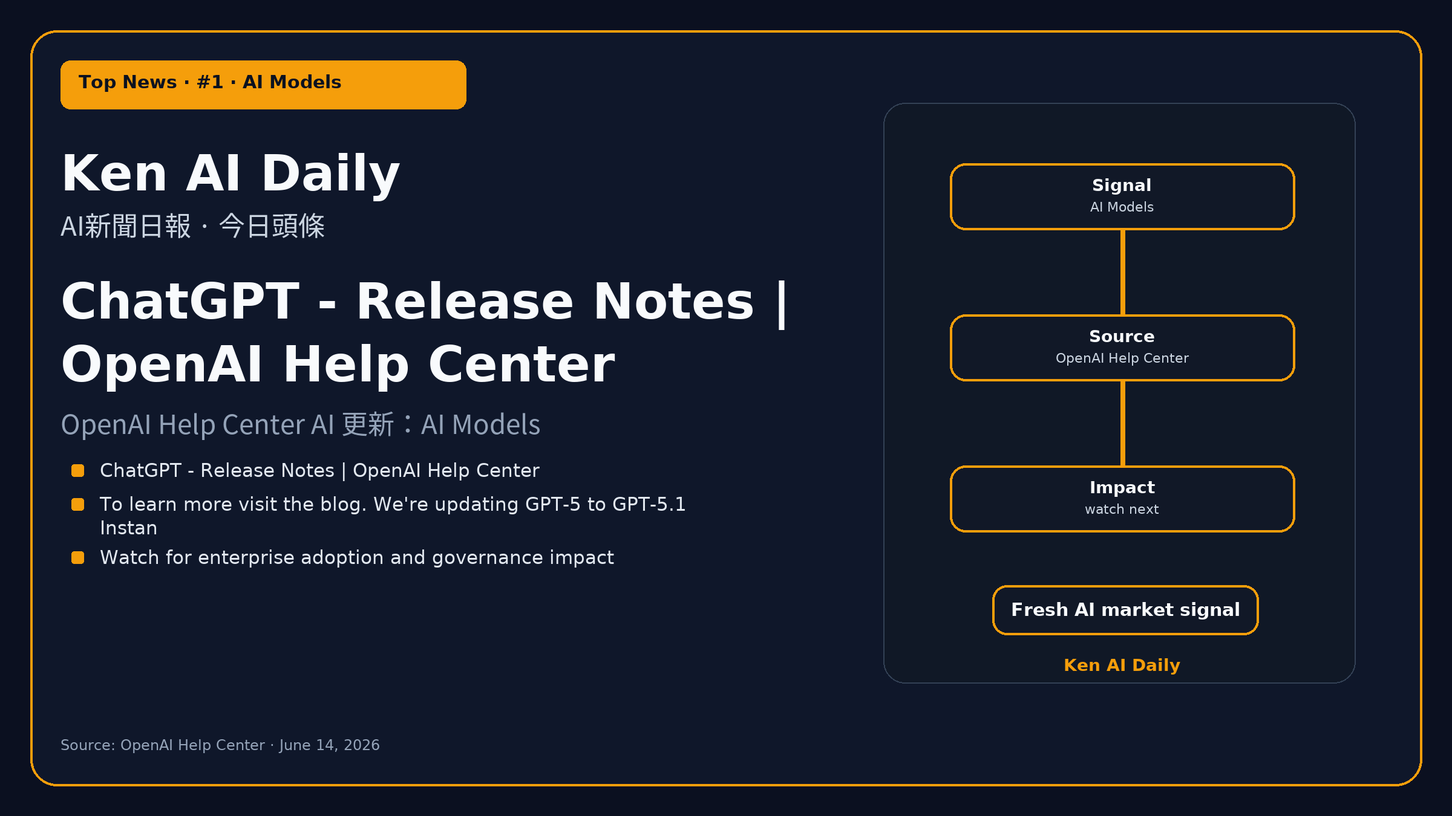
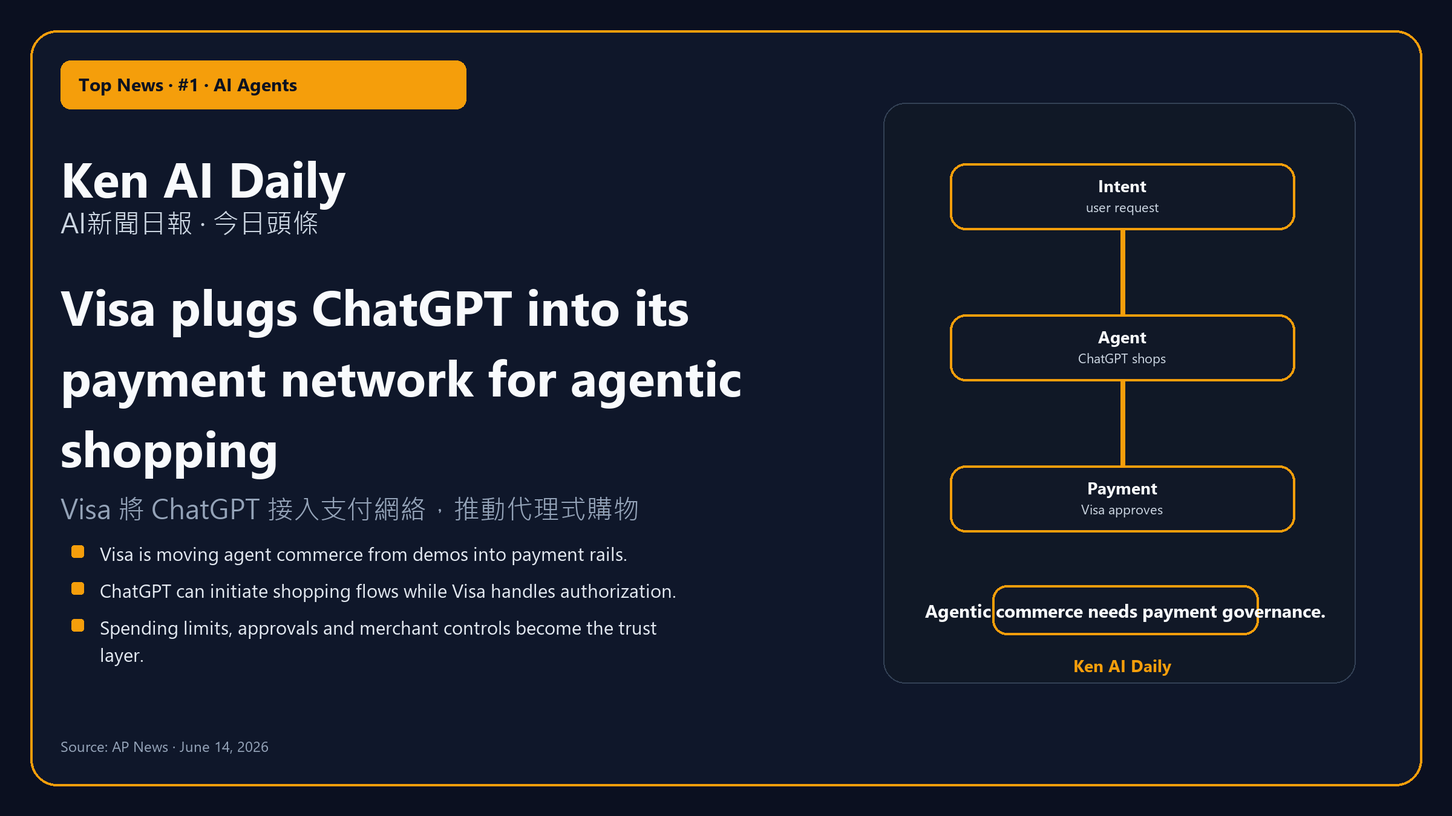
Daily AI brief - 2026-06-14

diff --git a/index.html b/index.html
@@ -943,13 +943,13 @@
     <div class="lead-text">
       <div class="kicker">The Cover Story · June 14</div>
       <h1 class="lead-headline">
-        OpenAI Help Center puts <em>ai models</em> back in focus
+        Agent commerce meets <em>real payment rails</em>
       </h1>
       <p class="lead-deck">
-        Today&#x27;s AI signals point to production systems, governance, infrastructure, and enterprise adoption.
+        Visa&#x27;s ChatGPT integration shows AI agents are moving from advice into authorized transactions.
       </p>
       <p class="lead-deck-zh">
-        今日 AI 訊號聚焦生產化、治理、基建與企業落地。
+        Visa 接入 ChatGPT 顯示 AI 代理正由建議工具走向可授權交易。
       </p>
       <div class="lead-byline">
         <span><strong>By Ken Chan</strong></span>
@@ -972,10 +972,10 @@
      ═══════════════════════════════════════════════════════════ -->
 <section class="ticker">
   <div class="ticker-inner">
-    <div class="stat"><div class="label">Top signal</div><div class="value">AI Models<span class="small">lead story</span></div></div>
-    <div class="stat"><div class="label">Sources</div><div class="value">6<span class="small">ranked items</span></div></div>
-    <div class="stat"><div class="label">Focus</div><div class="value">AI<span class="small">business impact</span></div></div>
-    <div class="stat"><div class="label">Format</div><div class="value">EN+ZH<span class="small">daily brief</span></div></div>
+    <div class="stat"><div class="label">Visa + ChatGPT</div><div class="value">agent<span class="small">payments</span></div></div>
+    <div class="stat"><div class="label">Anthropic</div><div class="value">$200M<span class="small">research</span></div></div>
+    <div class="stat"><div class="label">Model controls</div><div class="value">Fable<span class="small">offline</span></div></div>
+    <div class="stat"><div class="label">State AI laws</div><div class="value">rules<span class="small">advance</span></div></div>
   </div>
 </section>
 
@@ -1000,51 +1000,53 @@
 </div>
 <div class="post-card" id="post-20260614-1">
   <div class="post-meta">
-    <span class="post-cat" style="background:#f59e0b">AI Models</span>
-    <span class="post-source">OpenAI Help Center</span>
+    <span class="post-cat" style="background:#f59e0b">AI Agents</span>
+    <span class="post-source">AP News</span>
     <span class="post-date">Sunday · June 14</span>
   </div>
-  <h2 class="post-title">ChatGPT - Release Notes | OpenAI Help Center</h2>
-  <p class="post-title-zh">OpenAI Help Center AI 更新：AI Models</p>
-  <p class="post-body">To learn more visit the blog. We&#x27;re updating GPT-5 to GPT-5.1 Instant and GPT-5.1 Thinking, making answers both smarter and more conversational. GPT-5.1 Instant now uses</p>
-  <p class="post-body post-body-zh">此消息顯示 AI 市場正從實驗走向更可治理、更可落地的應用。</p>
+  <h2 class="post-title">Visa plugs ChatGPT into its payment network for agentic shopping</h2>
+  <p class="post-title-zh">Visa 將 ChatGPT 接入支付網絡，推動代理式購物</p>
+  <p class="post-body">Visa said it embedded its payment network into ChatGPT so AI agents can recommend items and complete purchases with authorization, spending limits and fraud controls.</p>
+  <p class="post-body post-body-zh">Visa 表示已將支付網絡嵌入 ChatGPT，讓 AI 代理可在授權、支出上限與防詐控制下推薦商品並完成付款。</p>
   <div class="post-infographic"><svg xmlns="http://www.w3.org/2000/svg" viewBox="0 0 580 320" style="background:#0f172a;border-radius:10px;width:100%;max-width:580px">
   <defs><linearGradient id="g202606141" x1="0" y1="0" x2="1" y2="1"><stop offset="0%" stop-color="#1e293b"/><stop offset="100%" stop-color="#0f172a"/></linearGradient></defs>
   <rect width="580" height="320" rx="10" fill="url(#g202606141)"/>
-  <text x="22" y="26" font-size="12" fill="#94a3b8" letter-spacing="1.4">AI MODELS · OpenAI Help Center</text>
-  <text x="22" y="54" font-size="17" fill="#f8fafc" font-weight="800">ChatGPT - Release Notes | OpenAI Help Center</text>
+  <text x="22" y="26" font-size="12" fill="#94a3b8" letter-spacing="1.4">AI AGENTS · AP News</text>
+  <text x="22" y="54" font-size="17" fill="#f8fafc" font-weight="800">Visa plugs ChatGPT into its payment network for agentic...</text>
   
-<rect x="88" y="92" width="166" height="104" rx="18" fill="#111827" stroke="#f59e0b" stroke-width="4"/>
-<rect x="322" y="92" width="166" height="104" rx="18" fill="#111827" stroke="#f59e0b" stroke-width="4"/>
-<text x="171" y="132" font-size="18" fill="#f8fafc" text-anchor="middle">GPT-5.3</text>
-<text x="171" y="158" font-size="12" fill="#cbd5e1" text-anchor="middle">older default</text>
-<text x="405" y="132" font-size="18" fill="#f8fafc" text-anchor="middle">GPT-5.5</text>
-<text x="405" y="158" font-size="12" fill="#cbd5e1" text-anchor="middle">new default</text>
-<path d="M254 144 H322" stroke="#f59e0b" stroke-width="6" stroke-linecap="round"/>
-<text x="290" y="124" font-size="11" fill="#cbd5e1" text-anchor="middle">52.5% fewer hallucinations</text>
+<rect x="72" y="98" width="126" height="82" rx="16" fill="#111827" stroke="#f59e0b" stroke-width="4"/>
+<rect x="226" y="76" width="128" height="126" rx="18" fill="#111827" stroke="#f59e0b" stroke-width="4"/>
+<rect x="382" y="98" width="126" height="82" rx="16" fill="#111827" stroke="#f59e0b" stroke-width="4"/>
+<path d="M198 139 H226 M354 139 H382" stroke="#f59e0b" stroke-width="6" stroke-linecap="round"/>
+<text x="135" y="131" font-size="16" fill="#f8fafc" text-anchor="middle">Wallet</text>
+<text x="135" y="154" font-size="11" fill="#cbd5e1" text-anchor="middle">limits + auth</text>
+<text x="290" y="128" font-size="16" fill="#f8fafc" text-anchor="middle">AgentCore</text>
+<text x="290" y="151" font-size="11" fill="#cbd5e1" text-anchor="middle">x402 payment loop</text>
+<text x="445" y="131" font-size="16" fill="#f8fafc" text-anchor="middle">Tools</text>
+<text x="445" y="154" font-size="11" fill="#cbd5e1" text-anchor="middle">paid endpoints</text>
 
   <rect x="24" y="236" width="160" height="48" rx="8" fill="#111827" stroke="#334155"/><rect x="24" y="236" width="160" height="4" rx="2" fill="#f59e0b"/><text x="38" y="259" font-size="15" fill="#f8fafc" font-weight="800">#1</text><text x="38" y="276" font-size="10" fill="#94a3b8">ranking</text>
-  <rect x="204" y="236" width="160" height="48" rx="8" fill="#111827" stroke="#334155"/><rect x="204" y="236" width="160" height="4" rx="2" fill="#f59e0b"/><text x="218" y="259" font-size="15" fill="#f8fafc" font-weight="800">AI Models</text><text x="218" y="276" font-size="10" fill="#94a3b8">category</text>
+  <rect x="204" y="236" width="160" height="48" rx="8" fill="#111827" stroke="#334155"/><rect x="204" y="236" width="160" height="4" rx="2" fill="#f59e0b"/><text x="218" y="259" font-size="15" fill="#f8fafc" font-weight="800">AI Agents</text><text x="218" y="276" font-size="10" fill="#94a3b8">category</text>
   <rect x="384" y="236" width="160" height="48" rx="8" fill="#111827" stroke="#334155"/><rect x="384" y="236" width="160" height="4" rx="2" fill="#f59e0b"/><text x="398" y="259" font-size="15" fill="#f8fafc" font-weight="800">June 14</text><text x="398" y="276" font-size="10" fill="#94a3b8">HKT issue</text>
-  <text x="22" y="306" font-size="10" fill="#64748b">Source: OpenAI Help Center</text><text x="558" y="306" font-size="10" fill="#64748b" text-anchor="end">Ken AI Daily</text>
+  <text x="22" y="306" font-size="10" fill="#64748b">Source: AP News</text><text x="558" y="306" font-size="10" fill="#64748b" text-anchor="end">Ken AI Daily</text>
 </svg></div>
-  <a class="post-link" href="https://help.openai.com/en/articles/6825453-chatgpt-release-notes" target="_blank" rel="noopener">OpenAI Help Center →</a>
+  <a class="post-link" href="https://apnews.com/article/visa-chatgpt-openai-shopping-mastercard-d769dec86344cb4977c98789e8ec492f" target="_blank" rel="noopener">AP News →</a>
 </div>
 <div class="post-card" id="post-20260614-2">
   <div class="post-meta">
-    <span class="post-cat" style="background:#06b6d4">AI Regulation</span>
-    <span class="post-source">Sentinel</span>
+    <span class="post-cat" style="background:#06b6d4">AI Security</span>
+    <span class="post-source">AP News</span>
     <span class="post-date">Sunday · June 14</span>
   </div>
-  <h2 class="post-title">Deloitte and Google Cloud launch 1,000 AI agents for enterprises</h2>
-  <p class="post-title-zh">德勤與谷歌雲推出1000個AI代理</p>
-  <p class="post-body">Deloitte and Google Cloud announced a practice with over 1000 pre-built AI agents to accelerate enterprise AI adoption</p>
-  <p class="post-body post-body-zh">德勤與谷歌雲宣布推出1000個AI代理加速企業AI應用</p>
+  <h2 class="post-title">Anthropic takes newest models offline under U.S. export controls</h2>
+  <p class="post-title-zh">Anthropic 因美國出口管制下架最新模型</p>
+  <p class="post-body">Anthropic said it took Fable 5 and Mythos 5 offline after a U.S. directive blocked access by foreign nationals, escalating the model-control debate.</p>
+  <p class="post-body post-body-zh">Anthropic 表示在美國指令限制外國人士取用後，下架 Fable 5 與 Mythos 5，令模型管制爭議升級。</p>
   <div class="post-infographic"><svg xmlns="http://www.w3.org/2000/svg" viewBox="0 0 580 320" style="background:#0f172a;border-radius:10px;width:100%;max-width:580px">
   <defs><linearGradient id="g202606142" x1="0" y1="0" x2="1" y2="1"><stop offset="0%" stop-color="#1e293b"/><stop offset="100%" stop-color="#0f172a"/></linearGradient></defs>
   <rect width="580" height="320" rx="10" fill="url(#g202606142)"/>
-  <text x="22" y="26" font-size="12" fill="#94a3b8" letter-spacing="1.4">AI REGULATION · Sentinel</text>
-  <text x="22" y="54" font-size="17" fill="#f8fafc" font-weight="800">Deloitte and Google Cloud launch 1,000 AI agents for...</text>
+  <text x="22" y="26" font-size="12" fill="#94a3b8" letter-spacing="1.4">AI SECURITY · AP News</text>
+  <text x="22" y="54" font-size="17" fill="#f8fafc" font-weight="800">Anthropic takes newest models offline under U.S. export...</text>
   
 <rect x="82" y="94" width="124" height="88" rx="16" fill="#111827" stroke="#06b6d4" stroke-width="4"/>
 <rect x="228" y="78" width="124" height="120" rx="16" fill="#111827" stroke="#06b6d4" stroke-width="4"/>
@@ -1056,143 +1058,147 @@
 <text x="436" y="144" font-size="17" fill="#f8fafc" text-anchor="middle">Deploy</text>
 
   <rect x="24" y="236" width="160" height="48" rx="8" fill="#111827" stroke="#334155"/><rect x="24" y="236" width="160" height="4" rx="2" fill="#06b6d4"/><text x="38" y="259" font-size="15" fill="#f8fafc" font-weight="800">#2</text><text x="38" y="276" font-size="10" fill="#94a3b8">ranking</text>
-  <rect x="204" y="236" width="160" height="48" rx="8" fill="#111827" stroke="#334155"/><rect x="204" y="236" width="160" height="4" rx="2" fill="#06b6d4"/><text x="218" y="259" font-size="15" fill="#f8fafc" font-weight="800">AI Regulation</text><text x="218" y="276" font-size="10" fill="#94a3b8">category</text>
+  <rect x="204" y="236" width="160" height="48" rx="8" fill="#111827" stroke="#334155"/><rect x="204" y="236" width="160" height="4" rx="2" fill="#06b6d4"/><text x="218" y="259" font-size="15" fill="#f8fafc" font-weight="800">AI Security</text><text x="218" y="276" font-size="10" fill="#94a3b8">category</text>
   <rect x="384" y="236" width="160" height="48" rx="8" fill="#111827" stroke="#334155"/><rect x="384" y="236" width="160" height="4" rx="2" fill="#06b6d4"/><text x="398" y="259" font-size="15" fill="#f8fafc" font-weight="800">June 14</text><text x="398" y="276" font-size="10" fill="#94a3b8">HKT issue</text>
-  <text x="22" y="306" font-size="10" fill="#64748b">Source: Sentinel</text><text x="558" y="306" font-size="10" fill="#64748b" text-anchor="end">Ken AI Daily</text>
+  <text x="22" y="306" font-size="10" fill="#64748b">Source: AP News</text><text x="558" y="306" font-size="10" fill="#64748b" text-anchor="end">Ken AI Daily</text>
 </svg></div>
-  <a class="post-link" href="https://sentinel.ht/deloitte-google-cloud-agentic-practice-enterprise-agents/" target="_blank" rel="noopener">Sentinel →</a>
+  <a class="post-link" href="https://apnews.com/article/anthropic-artificial-intelligence-trump-fable-mythos-d9cc7df5c02e93837d0f0bfb24d5cfd2" target="_blank" rel="noopener">AP News →</a>
 </div>
 <div class="post-card" id="post-20260614-3">
   <div class="post-meta">
-    <span class="post-cat" style="background:#ef4444">AI Infrastructure</span>
-    <span class="post-source">NVIDIA</span>
+    <span class="post-cat" style="background:#ef4444">AI Regulation</span>
+    <span class="post-source">AP News</span>
     <span class="post-date">Sunday · June 14</span>
   </div>
-  <h2 class="post-title">NVIDIA: Essential AI Infrastructure Driving the Next Generation</h2>
-  <p class="post-title-zh">NVIDIA AI基礎設施推動下一代</p>
-  <p class="post-body">NVIDIA provides the essential computing infrastructure for artificial intelligence, from GPUs to supercomputers</p>
-  <p class="post-body post-body-zh">NVIDIA提供從GPU到超級電腦的AI運算基礎</p>
+  <h2 class="post-title">U.S. states keep advancing AI rules despite federal pushback</h2>
+  <p class="post-title-zh">即使聯邦施壓，美國各州仍推進 AI 規管</p>
+  <p class="post-body">AP reports state lawmakers are pressing ahead with targeted AI laws on chatbots, employers and catastrophic-risk duties while Congress remains stalled.</p>
+  <p class="post-body post-body-zh">AP 指州議員在國會停滯下，仍推動針對聊天機器人、僱主與災難風險責任的 AI 法例。</p>
   <div class="post-infographic"><svg xmlns="http://www.w3.org/2000/svg" viewBox="0 0 580 320" style="background:#0f172a;border-radius:10px;width:100%;max-width:580px">
   <defs><linearGradient id="g202606143" x1="0" y1="0" x2="1" y2="1"><stop offset="0%" stop-color="#1e293b"/><stop offset="100%" stop-color="#0f172a"/></linearGradient></defs>
   <rect width="580" height="320" rx="10" fill="url(#g202606143)"/>
-  <text x="22" y="26" font-size="12" fill="#94a3b8" letter-spacing="1.4">AI INFRASTRUCTURE · NVIDIA</text>
-  <text x="22" y="54" font-size="17" fill="#f8fafc" font-weight="800">NVIDIA: Essential AI Infrastructure Driving the Next...</text>
+  <text x="22" y="26" font-size="12" fill="#94a3b8" letter-spacing="1.4">AI REGULATION · AP News</text>
+  <text x="22" y="54" font-size="17" fill="#f8fafc" font-weight="800">U.S. states keep advancing AI rules despite federal pushback</text>
   
-<rect x="84" y="104" width="122" height="70" rx="14" fill="#111827" stroke="#ef4444" stroke-width="3"/>
-<rect x="228" y="86" width="122" height="106" rx="14" fill="#111827" stroke="#ef4444" stroke-width="3"/>
-<rect x="372" y="104" width="122" height="70" rx="14" fill="#111827" stroke="#ef4444" stroke-width="3"/>
-<path d="M206 139 H228 M350 139 H372" stroke="#ef4444" stroke-width="6" stroke-linecap="round"/>
-<text x="145" y="136" font-size="15" fill="#f8fafc" text-anchor="middle">Capital</text>
-<text x="289" y="128" font-size="15" fill="#f8fafc" text-anchor="middle">Cloud + TPU</text>
-<text x="289" y="151" font-size="11" fill="#cbd5e1" text-anchor="middle">5-year commitment</text>
-<text x="433" y="136" font-size="15" fill="#f8fafc" text-anchor="middle">Capacity</text>
-
-  <rect x="24" y="236" width="160" height="48" rx="8" fill="#111827" stroke="#334155"/><rect x="24" y="236" width="160" height="4" rx="2" fill="#ef4444"/><text x="38" y="259" font-size="15" fill="#f8fafc" font-weight="800">#3</text><text x="38" y="276" font-size="10" fill="#94a3b8">ranking</text>
-  <rect x="204" y="236" width="160" height="48" rx="8" fill="#111827" stroke="#334155"/><rect x="204" y="236" width="160" height="4" rx="2" fill="#ef4444"/><text x="218" y="259" font-size="15" fill="#f8fafc" font-weight="800">AI Infrastructure</text><text x="218" y="276" font-size="10" fill="#94a3b8">category</text>
-  <rect x="384" y="236" width="160" height="48" rx="8" fill="#111827" stroke="#334155"/><rect x="384" y="236" width="160" height="4" rx="2" fill="#ef4444"/><text x="398" y="259" font-size="15" fill="#f8fafc" font-weight="800">June 14</text><text x="398" y="276" font-size="10" fill="#94a3b8">HKT issue</text>
-  <text x="22" y="306" font-size="10" fill="#64748b">Source: NVIDIA</text><text x="558" y="306" font-size="10" fill="#64748b" text-anchor="end">Ken AI Daily</text>
-</svg></div>
-  <a class="post-link" href="https://www.nvidia.com/en-us/" target="_blank" rel="noopener">NVIDIA →</a>
-</div>
-<div class="post-card" id="post-20260614-4">
-  <div class="post-meta">
-    <span class="post-cat" style="background:#f97316">AI Regulation</span>
-    <span class="post-source">Anthropic</span>
-    <span class="post-date">Sunday · June 14</span>
-  </div>
-  <h2 class="post-title">Anthropic Advocates Federal AI Regulation, Warns Against Preempting State Laws</h2>
-  <p class="post-title-zh">Anthropic 呼籲聯邦AI法規，勿取代更嚴格州法</p>
-  <p class="post-body">Anthropic proposes federal AI regulation but cautions against preempting stronger state laws</p>
-  <p class="post-body post-body-zh">Anthropic 提議聯邦AI法規，但警告勿取代更嚴州法</p>
-  <div class="post-infographic"><svg xmlns="http://www.w3.org/2000/svg" viewBox="0 0 580 320" style="background:#0f172a;border-radius:10px;width:100%;max-width:580px">
-  <defs><linearGradient id="g202606144" x1="0" y1="0" x2="1" y2="1"><stop offset="0%" stop-color="#1e293b"/><stop offset="100%" stop-color="#0f172a"/></linearGradient></defs>
-  <rect width="580" height="320" rx="10" fill="url(#g202606144)"/>
-  <text x="22" y="26" font-size="12" fill="#94a3b8" letter-spacing="1.4">AI REGULATION · Anthropic</text>
-  <text x="22" y="54" font-size="17" fill="#f8fafc" font-weight="800">Anthropic Advocates Federal AI Regulation, Warns Against...</text>
-  
-<rect x="82" y="94" width="124" height="88" rx="16" fill="#111827" stroke="#f97316" stroke-width="4"/>
-<rect x="228" y="78" width="124" height="120" rx="16" fill="#111827" stroke="#f97316" stroke-width="4"/>
-<rect x="374" y="94" width="124" height="88" rx="16" fill="#111827" stroke="#f97316" stroke-width="4"/>
-<path d="M206 138 H228 M352 138 H374" stroke="#f97316" stroke-width="6" stroke-linecap="round"/>
+<rect x="82" y="94" width="124" height="88" rx="16" fill="#111827" stroke="#ef4444" stroke-width="4"/>
+<rect x="228" y="78" width="124" height="120" rx="16" fill="#111827" stroke="#ef4444" stroke-width="4"/>
+<rect x="374" y="94" width="124" height="88" rx="16" fill="#111827" stroke="#ef4444" stroke-width="4"/>
+<path d="M206 138 H228 M352 138 H374" stroke="#ef4444" stroke-width="6" stroke-linecap="round"/>
 <text x="144" y="144" font-size="17" fill="#f8fafc" text-anchor="middle">Labs</text>
 <text x="290" y="132" font-size="17" fill="#f8fafc" text-anchor="middle">CAISI</text>
 <text x="290" y="156" font-size="12" fill="#cbd5e1" text-anchor="middle">pre-release evals</text>
 <text x="436" y="144" font-size="17" fill="#f8fafc" text-anchor="middle">Deploy</text>
 
-  <rect x="24" y="236" width="160" height="48" rx="8" fill="#111827" stroke="#334155"/><rect x="24" y="236" width="160" height="4" rx="2" fill="#f97316"/><text x="38" y="259" font-size="15" fill="#f8fafc" font-weight="800">#4</text><text x="38" y="276" font-size="10" fill="#94a3b8">ranking</text>
-  <rect x="204" y="236" width="160" height="48" rx="8" fill="#111827" stroke="#334155"/><rect x="204" y="236" width="160" height="4" rx="2" fill="#f97316"/><text x="218" y="259" font-size="15" fill="#f8fafc" font-weight="800">AI Regulation</text><text x="218" y="276" font-size="10" fill="#94a3b8">category</text>
-  <rect x="384" y="236" width="160" height="48" rx="8" fill="#111827" stroke="#334155"/><rect x="384" y="236" width="160" height="4" rx="2" fill="#f97316"/><text x="398" y="259" font-size="15" fill="#f8fafc" font-weight="800">June 14</text><text x="398" y="276" font-size="10" fill="#94a3b8">HKT issue</text>
-  <text x="22" y="306" font-size="10" fill="#64748b">Source: Anthropic</text><text x="558" y="306" font-size="10" fill="#64748b" text-anchor="end">Ken AI Daily</text>
+  <rect x="24" y="236" width="160" height="48" rx="8" fill="#111827" stroke="#334155"/><rect x="24" y="236" width="160" height="4" rx="2" fill="#ef4444"/><text x="38" y="259" font-size="15" fill="#f8fafc" font-weight="800">#3</text><text x="38" y="276" font-size="10" fill="#94a3b8">ranking</text>
+  <rect x="204" y="236" width="160" height="48" rx="8" fill="#111827" stroke="#334155"/><rect x="204" y="236" width="160" height="4" rx="2" fill="#ef4444"/><text x="218" y="259" font-size="15" fill="#f8fafc" font-weight="800">AI Regulation</text><text x="218" y="276" font-size="10" fill="#94a3b8">category</text>
+  <rect x="384" y="236" width="160" height="48" rx="8" fill="#111827" stroke="#334155"/><rect x="384" y="236" width="160" height="4" rx="2" fill="#ef4444"/><text x="398" y="259" font-size="15" fill="#f8fafc" font-weight="800">June 14</text><text x="398" y="276" font-size="10" fill="#94a3b8">HKT issue</text>
+  <text x="22" y="306" font-size="10" fill="#64748b">Source: AP News</text><text x="558" y="306" font-size="10" fill="#64748b" text-anchor="end">Ken AI Daily</text>
 </svg></div>
-  <a class="post-link" href="https://www.anthropic.com/policy-on-the-ai-exponential" target="_blank" rel="noopener">Anthropic →</a>
+  <a class="post-link" href="https://apnews.com/article/trump-artificial-intelligence-chatbots-ai-23a0e44ab05402ddfe9cdfd0bffa0ade" target="_blank" rel="noopener">AP News →</a>
+</div>
+<div class="post-card" id="post-20260614-4">
+  <div class="post-meta">
+    <span class="post-cat" style="background:#f97316">AI Funding</span>
+    <span class="post-source">AP News</span>
+    <span class="post-date">Sunday · June 14</span>
+  </div>
+  <h2 class="post-title">Anthropic pledges $200M for research into AI&#x27;s economic shock</h2>
+  <p class="post-title-zh">Anthropic 承諾投入 2 億美元研究 AI 經濟衝擊</p>
+  <p class="post-body">Anthropic announced an initial $200 million effort to study AI&#x27;s effects on jobs and the economy as Dario Amodei argued for broader public support.</p>
+  <p class="post-body post-body-zh">Anthropic 宣布首階段投入 2 億美元研究 AI 對就業與經濟的影響，Dario Amodei 亦主張更廣泛公共支援。</p>
+  <div class="post-infographic"><svg xmlns="http://www.w3.org/2000/svg" viewBox="0 0 580 320" style="background:#0f172a;border-radius:10px;width:100%;max-width:580px">
+  <defs><linearGradient id="g202606144" x1="0" y1="0" x2="1" y2="1"><stop offset="0%" stop-color="#1e293b"/><stop offset="100%" stop-color="#0f172a"/></linearGradient></defs>
+  <rect width="580" height="320" rx="10" fill="url(#g202606144)"/>
+  <text x="22" y="26" font-size="12" fill="#94a3b8" letter-spacing="1.4">AI FUNDING · AP News</text>
+  <text x="22" y="54" font-size="17" fill="#f8fafc" font-weight="800">Anthropic pledges $200M for research into AI&#x27;s economic shock</text>
+  
+<rect x="70" y="94" width="132" height="90" rx="16" fill="#111827" stroke="#f97316" stroke-width="4"/>
+<rect x="224" y="78" width="132" height="122" rx="16" fill="#111827" stroke="#f97316" stroke-width="4"/>
+<rect x="378" y="94" width="132" height="90" rx="16" fill="#111827" stroke="#f97316" stroke-width="4"/>
+<path d="M202 139 H224 M356 139 H378" stroke="#f97316" stroke-width="6" stroke-linecap="round"/>
+<text x="136" y="130" font-size="15" fill="#f8fafc" text-anchor="middle">Brands</text>
+<text x="136" y="154" font-size="11" fill="#cbd5e1" text-anchor="middle">partners</text>
+<text x="290" y="128" font-size="15" fill="#f8fafc" text-anchor="middle">Ads Manager</text>
+<text x="290" y="152" font-size="11" fill="#cbd5e1" text-anchor="middle">self-serve beta</text>
+<text x="444" y="130" font-size="15" fill="#f8fafc" text-anchor="middle">ChatGPT</text>
+<text x="444" y="154" font-size="11" fill="#cbd5e1" text-anchor="middle">CPC buying</text>
+
+  <rect x="24" y="236" width="160" height="48" rx="8" fill="#111827" stroke="#334155"/><rect x="24" y="236" width="160" height="4" rx="2" fill="#f97316"/><text x="38" y="259" font-size="15" fill="#f8fafc" font-weight="800">#4</text><text x="38" y="276" font-size="10" fill="#94a3b8">ranking</text>
+  <rect x="204" y="236" width="160" height="48" rx="8" fill="#111827" stroke="#334155"/><rect x="204" y="236" width="160" height="4" rx="2" fill="#f97316"/><text x="218" y="259" font-size="15" fill="#f8fafc" font-weight="800">AI Funding</text><text x="218" y="276" font-size="10" fill="#94a3b8">category</text>
+  <rect x="384" y="236" width="160" height="48" rx="8" fill="#111827" stroke="#334155"/><rect x="384" y="236" width="160" height="4" rx="2" fill="#f97316"/><text x="398" y="259" font-size="15" fill="#f8fafc" font-weight="800">June 14</text><text x="398" y="276" font-size="10" fill="#94a3b8">HKT issue</text>
+  <text x="22" y="306" font-size="10" fill="#64748b">Source: AP News</text><text x="558" y="306" font-size="10" fill="#64748b" text-anchor="end">Ken AI Daily</text>
+</svg></div>
+  <a class="post-link" href="https://apnews.com/article/anthropic-dario-amodei-ai-afeb5279eef406980dffa46ff91495e0" target="_blank" rel="noopener">AP News →</a>
 </div>
 <div class="post-card" id="post-20260614-5">
   <div class="post-meta">
-    <span class="post-cat" style="background:#22c55e">AI Agents</span>
-    <span class="post-source">NVIDIA Developer</span>
+    <span class="post-cat" style="background:#22c55e">AI Regulation</span>
+    <span class="post-source">AP News</span>
     <span class="post-date">Sunday · June 14</span>
   </div>
-  <h2 class="post-title">NVIDIA Previews Qwen3-Next AI Agent with Optimized NIM</h2>
-  <p class="post-title-zh">NVIDIA預覽Qwen3-Next AI代理</p>
-  <p class="post-body">NVIDIA previews Qwen3-Next, a hybrid MoE model for building AI agents with accelerated inference</p>
-  <p class="post-body post-body-zh">NVIDIA預覽Qwen3-Next混合MoE模型，加速AI代理推理。</p>
+  <h2 class="post-title">New York requires ads to label AI-generated synthetic performers</h2>
+  <p class="post-title-zh">紐約要求廣告標示 AI 生成的虛擬表演者</p>
+  <p class="post-body">New York&#x27;s new law requires ads using AI-generated people in place of actors to make clear disclosures, with penalties for violations.</p>
+  <p class="post-body post-body-zh">紐約新法要求以 AI 生成真人形象取代演員的廣告作出清楚披露，違規者將面臨罰款。</p>
   <div class="post-infographic"><svg xmlns="http://www.w3.org/2000/svg" viewBox="0 0 580 320" style="background:#0f172a;border-radius:10px;width:100%;max-width:580px">
   <defs><linearGradient id="g202606145" x1="0" y1="0" x2="1" y2="1"><stop offset="0%" stop-color="#1e293b"/><stop offset="100%" stop-color="#0f172a"/></linearGradient></defs>
   <rect width="580" height="320" rx="10" fill="url(#g202606145)"/>
-  <text x="22" y="26" font-size="12" fill="#94a3b8" letter-spacing="1.4">AI AGENTS · NVIDIA Developer</text>
-  <text x="22" y="54" font-size="17" fill="#f8fafc" font-weight="800">NVIDIA Previews Qwen3-Next AI Agent with Optimized NIM</text>
+  <text x="22" y="26" font-size="12" fill="#94a3b8" letter-spacing="1.4">AI REGULATION · AP News</text>
+  <text x="22" y="54" font-size="17" fill="#f8fafc" font-weight="800">New York requires ads to label AI-generated synthetic...</text>
   
-<circle cx="126" cy="138" r="40" fill="#111827" stroke="#22c55e" stroke-width="4"/>
-<rect x="220" y="96" width="146" height="82" rx="14" fill="#111827" stroke="#22c55e" stroke-width="4"/>
-<rect x="410" y="84" width="92" height="36" rx="10" fill="#111827" stroke="#22c55e" stroke-width="3"/>
-<rect x="410" y="128" width="92" height="36" rx="10" fill="#111827" stroke="#22c55e" stroke-width="3"/>
-<rect x="410" y="172" width="92" height="36" rx="10" fill="#111827" stroke="#22c55e" stroke-width="3"/>
-<path d="M166 138 H220 M366 138 H410" stroke="#22c55e" stroke-width="6" stroke-linecap="round"/>
-<text x="126" y="145" font-size="15" fill="#f8fafc" text-anchor="middle">Arc</text>
-<text x="293" y="128" font-size="16" fill="#f8fafc" text-anchor="middle">OpenShell</text>
-<text x="293" y="151" font-size="12" fill="#cbd5e1" text-anchor="middle">secure runtime</text>
-<text x="456" y="107" font-size="11" fill="#f8fafc" text-anchor="middle">sandbox</text>
-<text x="456" y="151" font-size="11" fill="#f8fafc" text-anchor="middle">policy</text>
-<text x="456" y="195" font-size="11" fill="#f8fafc" text-anchor="middle">audit</text>
+<rect x="88" y="90" width="128" height="86" rx="16" fill="#111827" stroke="#22c55e" stroke-width="4"/>
+<rect x="228" y="76" width="124" height="114" rx="18" fill="#111827" stroke="#22c55e" stroke-width="4"/>
+<rect x="364" y="90" width="128" height="86" rx="16" fill="#111827" stroke="#22c55e" stroke-width="4"/>
+<path d="M216 133 H228 M352 133 H364" stroke="#22c55e" stroke-width="6" stroke-linecap="round"/>
+<text x="152" y="126" font-size="14" fill="#f8fafc" text-anchor="middle">Apps</text>
+<text x="152" y="148" font-size="11" fill="#cbd5e1" text-anchor="middle">data + workflows</text>
+<text x="290" y="125" font-size="14" fill="#f8fafc" text-anchor="middle">Control plane</text>
+<text x="290" y="148" font-size="11" fill="#cbd5e1" text-anchor="middle">observe + govern</text>
+<text x="428" y="126" font-size="14" fill="#f8fafc" text-anchor="middle">Agents</text>
+<text x="428" y="148" font-size="11" fill="#cbd5e1" text-anchor="middle">secure execution</text>
 
   <rect x="24" y="236" width="160" height="48" rx="8" fill="#111827" stroke="#334155"/><rect x="24" y="236" width="160" height="4" rx="2" fill="#22c55e"/><text x="38" y="259" font-size="15" fill="#f8fafc" font-weight="800">#5</text><text x="38" y="276" font-size="10" fill="#94a3b8">ranking</text>
-  <rect x="204" y="236" width="160" height="48" rx="8" fill="#111827" stroke="#334155"/><rect x="204" y="236" width="160" height="4" rx="2" fill="#22c55e"/><text x="218" y="259" font-size="15" fill="#f8fafc" font-weight="800">AI Agents</text><text x="218" y="276" font-size="10" fill="#94a3b8">category</text>
+  <rect x="204" y="236" width="160" height="48" rx="8" fill="#111827" stroke="#334155"/><rect x="204" y="236" width="160" height="4" rx="2" fill="#22c55e"/><text x="218" y="259" font-size="15" fill="#f8fafc" font-weight="800">AI Regulation</text><text x="218" y="276" font-size="10" fill="#94a3b8">category</text>
   <rect x="384" y="236" width="160" height="48" rx="8" fill="#111827" stroke="#334155"/><rect x="384" y="236" width="160" height="4" rx="2" fill="#22c55e"/><text x="398" y="259" font-size="15" fill="#f8fafc" font-weight="800">June 14</text><text x="398" y="276" font-size="10" fill="#94a3b8">HKT issue</text>
-  <text x="22" y="306" font-size="10" fill="#64748b">Source: NVIDIA Developer</text><text x="558" y="306" font-size="10" fill="#64748b" text-anchor="end">Ken AI Daily</text>
+  <text x="22" y="306" font-size="10" fill="#64748b">Source: AP News</text><text x="558" y="306" font-size="10" fill="#64748b" text-anchor="end">Ken AI Daily</text>
 </svg></div>
-  <a class="post-link" href="https://developer.nvidia.com/ai-models" target="_blank" rel="noopener">NVIDIA Developer →</a>
+  <a class="post-link" href="https://apnews.com/article/new-york-ai-law-hochul-synthetic-performers-e433625bfb61c8abeab0d619869192ed" target="_blank" rel="noopener">AP News →</a>
 </div>
 <div class="post-card" id="post-20260614-6">
   <div class="post-meta">
-    <span class="post-cat" style="background:#14b8a6">AI Infrastructure</span>
-    <span class="post-source">Google Cloud</span>
+    <span class="post-cat" style="background:#14b8a6">Enterprise AI</span>
+    <span class="post-source">TechCrunch</span>
     <span class="post-date">Sunday · June 14</span>
   </div>
-  <h2 class="post-title">Google Cloud Unveils AI Infrastructure with Enterprise-Grade Platform</h2>
-  <p class="post-title-zh">Google Cloud推出企業級AI基礎設施</p>
-  <p class="post-body">End-to-end migration program simplifies your path to the cloud, ensuring business continuity</p>
-  <p class="post-body post-body-zh">端到端遷移計劃簡化上雲路徑，確保業務連續性。</p>
+  <h2 class="post-title">India debates AI sovereignty after Anthropic&#x27;s model suspension</h2>
+  <p class="post-title-zh">Anthropic 暫停模型取用後，印度再議 AI 主權</p>
+  <p class="post-body">TechCrunch says Anthropic&#x27;s model suspension has revived debate in India over reliance on U.S.-governed AI systems and the need for local capacity.</p>
+  <p class="post-body post-body-zh">TechCrunch 指 Anthropic 暫停模型取用，令印度重新討論依賴美國治理 AI 系統與建立本地能力的問題。</p>
   <div class="post-infographic"><svg xmlns="http://www.w3.org/2000/svg" viewBox="0 0 580 320" style="background:#0f172a;border-radius:10px;width:100%;max-width:580px">
   <defs><linearGradient id="g202606146" x1="0" y1="0" x2="1" y2="1"><stop offset="0%" stop-color="#1e293b"/><stop offset="100%" stop-color="#0f172a"/></linearGradient></defs>
   <rect width="580" height="320" rx="10" fill="url(#g202606146)"/>
-  <text x="22" y="26" font-size="12" fill="#94a3b8" letter-spacing="1.4">AI INFRASTRUCTURE · Google Cloud</text>
-  <text x="22" y="54" font-size="17" fill="#f8fafc" font-weight="800">Google Cloud Unveils AI Infrastructure with Enterprise-...</text>
+  <text x="22" y="26" font-size="12" fill="#94a3b8" letter-spacing="1.4">ENTERPRISE AI · TechCrunch</text>
+  <text x="22" y="54" font-size="17" fill="#f8fafc" font-weight="800">India debates AI sovereignty after Anthropic&#x27;s model...</text>
   
-<rect x="84" y="104" width="122" height="70" rx="14" fill="#111827" stroke="#14b8a6" stroke-width="3"/>
-<rect x="228" y="86" width="122" height="106" rx="14" fill="#111827" stroke="#14b8a6" stroke-width="3"/>
-<rect x="372" y="104" width="122" height="70" rx="14" fill="#111827" stroke="#14b8a6" stroke-width="3"/>
-<path d="M206 139 H228 M350 139 H372" stroke="#14b8a6" stroke-width="6" stroke-linecap="round"/>
-<text x="145" y="136" font-size="15" fill="#f8fafc" text-anchor="middle">Capital</text>
-<text x="289" y="128" font-size="15" fill="#f8fafc" text-anchor="middle">Cloud + TPU</text>
-<text x="289" y="151" font-size="11" fill="#cbd5e1" text-anchor="middle">5-year commitment</text>
-<text x="433" y="136" font-size="15" fill="#f8fafc" text-anchor="middle">Capacity</text>
+<rect x="112" y="116" width="64" height="82" rx="12" fill="#111827" stroke="#14b8a6" stroke-width="4"/>
+<rect x="214" y="96" width="64" height="102" rx="12" fill="#111827" stroke="#14b8a6" stroke-width="4"/>
+<rect x="316" y="72" width="64" height="126" rx="12" fill="#111827" stroke="#14b8a6" stroke-width="4"/>
+<rect x="410" y="98" width="90" height="80" rx="16" fill="#111827" stroke="#14b8a6" stroke-width="4"/>
+<text x="144" y="145" font-size="12" fill="#f8fafc" text-anchor="middle">16.3%</text>
+<text x="144" y="166" font-size="10" fill="#cbd5e1" text-anchor="middle">Q4 2025</text>
+<text x="246" y="135" font-size="12" fill="#f8fafc" text-anchor="middle">17.8%</text>
+<text x="246" y="156" font-size="10" fill="#cbd5e1" text-anchor="middle">Q1 2026</text>
+<text x="348" y="121" font-size="12" fill="#f8fafc" text-anchor="middle">26</text>
+<text x="348" y="142" font-size="10" fill="#cbd5e1" text-anchor="middle">economies</text>
+<text x="455" y="128" font-size="12" fill="#f8fafc" text-anchor="middle">Git pushes</text>
+<text x="455" y="150" font-size="12" fill="#f8fafc" text-anchor="middle">+78% YoY</text>
 
   <rect x="24" y="236" width="160" height="48" rx="8" fill="#111827" stroke="#334155"/><rect x="24" y="236" width="160" height="4" rx="2" fill="#14b8a6"/><text x="38" y="259" font-size="15" fill="#f8fafc" font-weight="800">#6</text><text x="38" y="276" font-size="10" fill="#94a3b8">ranking</text>
-  <rect x="204" y="236" width="160" height="48" rx="8" fill="#111827" stroke="#334155"/><rect x="204" y="236" width="160" height="4" rx="2" fill="#14b8a6"/><text x="218" y="259" font-size="15" fill="#f8fafc" font-weight="800">AI Infrastructure</text><text x="218" y="276" font-size="10" fill="#94a3b8">category</text>
+  <rect x="204" y="236" width="160" height="48" rx="8" fill="#111827" stroke="#334155"/><rect x="204" y="236" width="160" height="4" rx="2" fill="#14b8a6"/><text x="218" y="259" font-size="15" fill="#f8fafc" font-weight="800">Enterprise AI</text><text x="218" y="276" font-size="10" fill="#94a3b8">category</text>
   <rect x="384" y="236" width="160" height="48" rx="8" fill="#111827" stroke="#334155"/><rect x="384" y="236" width="160" height="4" rx="2" fill="#14b8a6"/><text x="398" y="259" font-size="15" fill="#f8fafc" font-weight="800">June 14</text><text x="398" y="276" font-size="10" fill="#94a3b8">HKT issue</text>
-  <text x="22" y="306" font-size="10" fill="#64748b">Source: Google Cloud</text><text x="558" y="306" font-size="10" fill="#64748b" text-anchor="end">Ken AI Daily</text>
+  <text x="22" y="306" font-size="10" fill="#64748b">Source: TechCrunch</text><text x="558" y="306" font-size="10" fill="#64748b" text-anchor="end">Ken AI Daily</text>
 </svg></div>
-  <a class="post-link" href="https://cloud.google.com/" target="_blank" rel="noopener">Google Cloud →</a>
+  <a class="post-link" href="https://techcrunch.com/2026/06/13/as-anthropic-suspends-access-to-new-models-india-debates-its-ai-future/" target="_blank" rel="noopener">TechCrunch →</a>
 </div>
 <div class="post-card post-visual" id="post-visual-20260612">
   <div class="post-meta">
